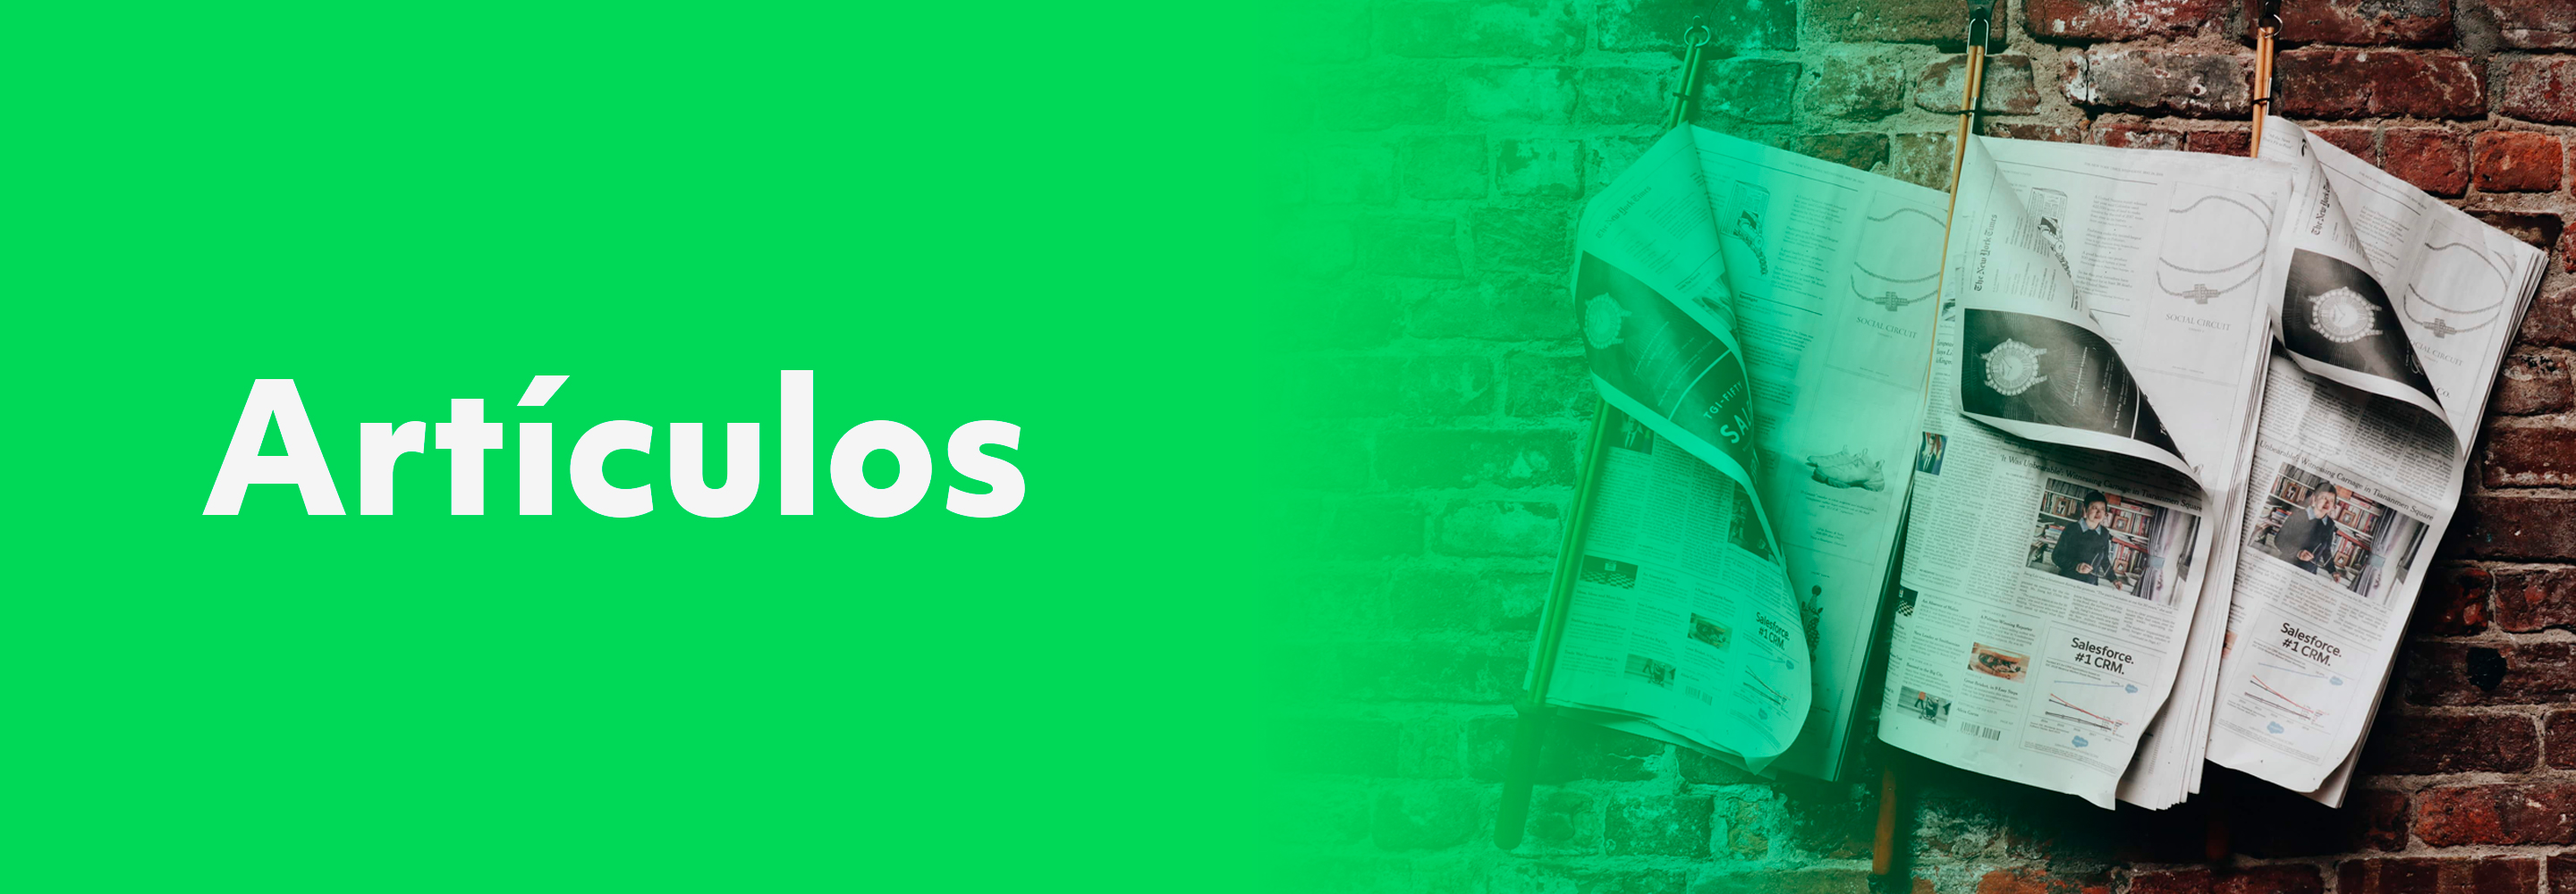
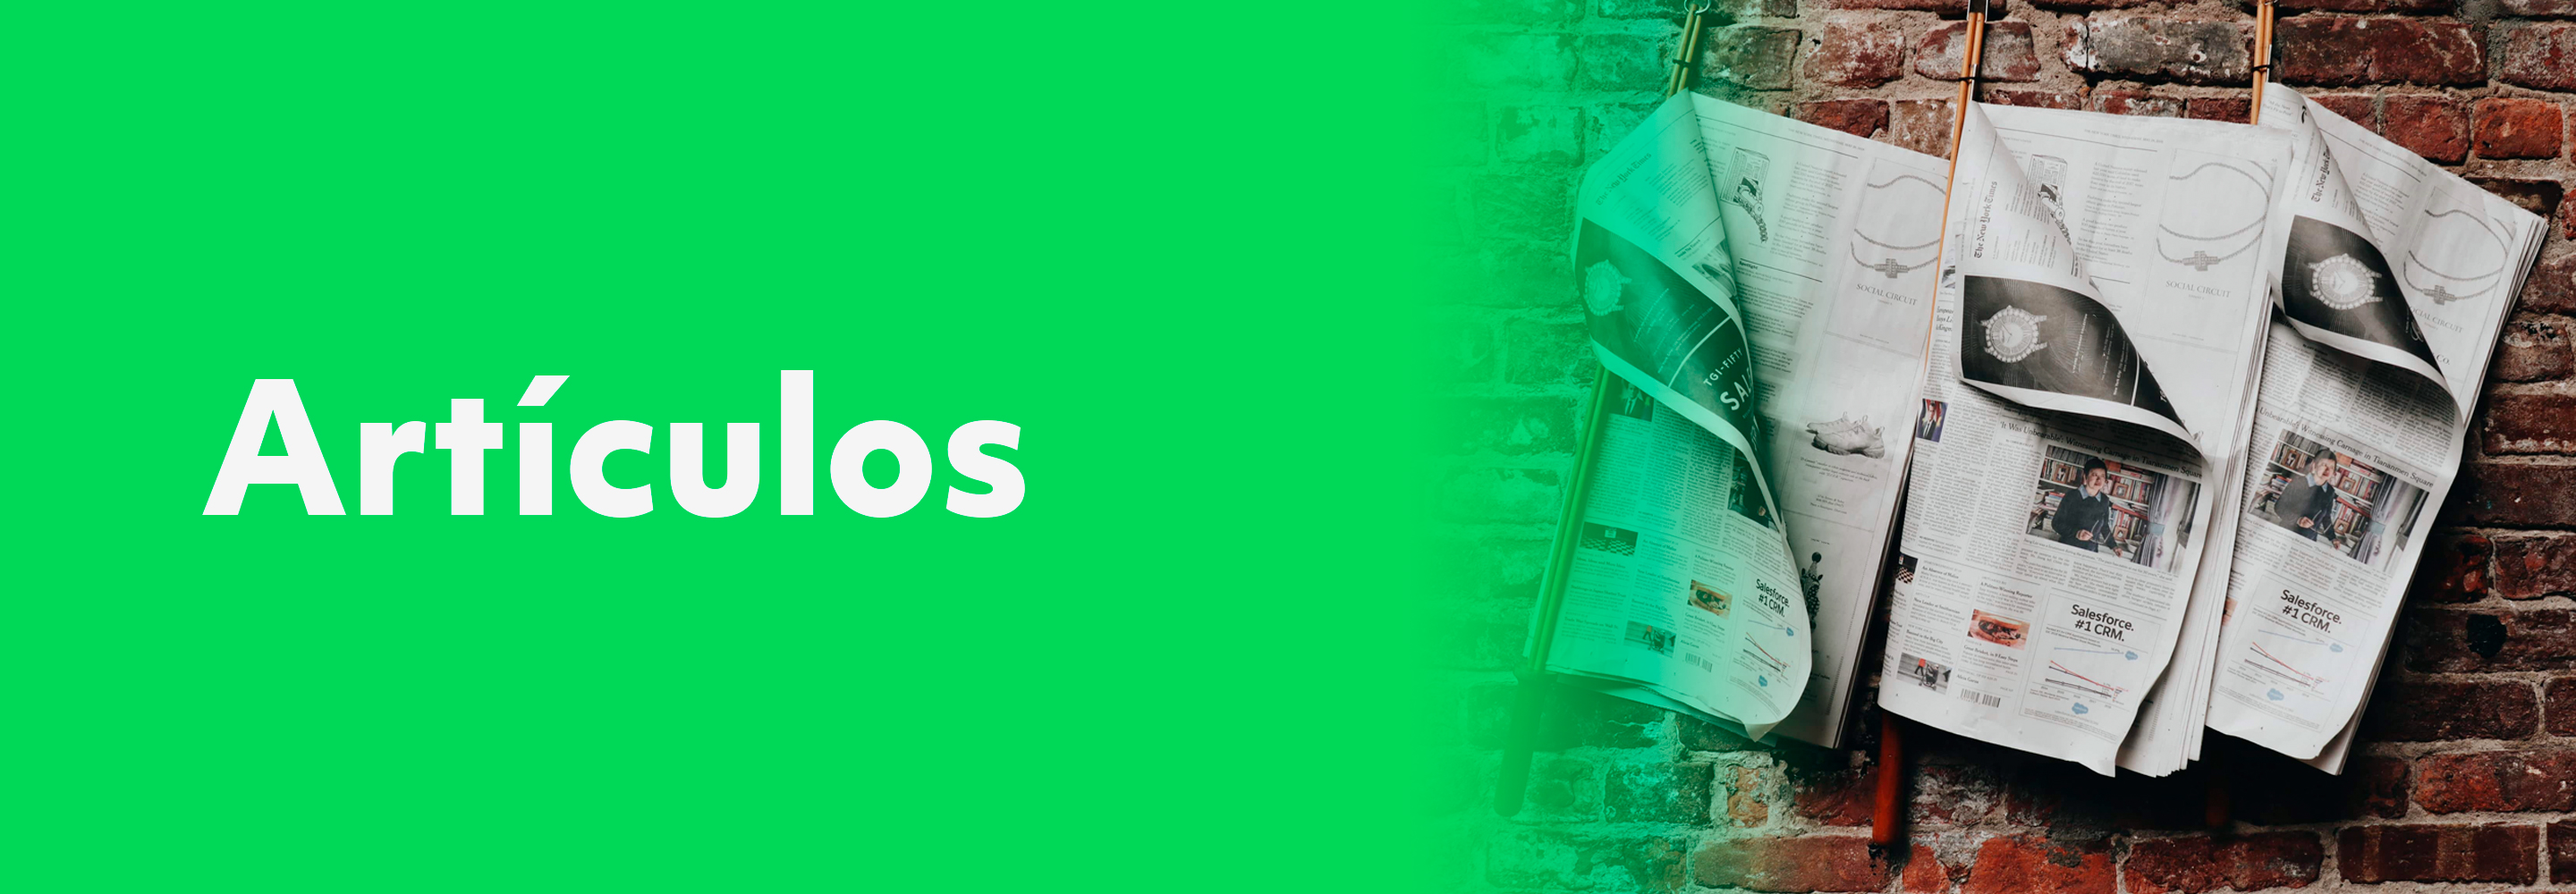
Complete categories page

Changed region(s): [[0.5312, 0.0, 1.0, 1.0], [0.5312, 0.589, 0.5625, 0.62]]

diff --git a/src/components/Web/CategoriesList/CategoriesList.scss b/src/components/Web/CategoriesList/CategoriesList.scss
@@ -1,0 +1,122 @@
+@import "../../../scss/index.scss";
+
+@-webkit-keyframes spin{
+    100%{-webkit-transform: rotate(360deg);}
+}
+@-moz-keyframes spin{
+    100%{-webkit-transform: rotate(360deg);}
+}
+@keyframes spin{
+    100%{-webkit-transform: rotate(360deg);}
+}
+
+.logo-spin{
+    position: absolute;
+    height: 80px;
+    width: 80px;
+    top: 50%;
+    left: calc(50% - 40px);
+    -webkit-animation: spin 1s linear infinite;
+    -moz-animation: spin 1s linear infinite;
+    animation: spin 1s linear infinite;
+}
+
+.categories-cover{
+    overflow: hidden;
+
+    @media(max-width: $s-laptop){
+        padding-top: 106px;
+        background-color: $RM-white;
+    }
+    @media(max-width: $s-phone){
+        padding-top: 85px;
+    }
+    img{
+        width: 100%;
+        height: auto;
+    }
+}
+
+.categories-list{
+        padding-left: 200px;
+        padding-right: 200px;
+        padding-bottom: 100px;
+        overflow: hidden;
+
+        @media (max-width: $s-laptop){
+            padding-left: 100px;
+            padding-right: 100px;
+        }
+
+        @media (max-width: $s-phone){
+            padding-left: 30px;
+            padding-right: 30px;
+        }
+
+    &__title{
+            margin-top: 140px;
+            font-family: $titles-font;
+            font-size: 40px;
+            margin-bottom: 70px;
+
+            @media(max-width: $s-phone){
+                font-size: 35px;
+                margin-top: 70px;
+            }
+
+            @media(max-width: $s-phone-s){
+                font-size: 30px;
+            }
+
+            @media(max-width: $s-phone-xs){
+                font-size: 25px;
+            }
+    }
+
+    &__item{
+        width: 742px;
+        height: 355px;
+        display: inline-block;
+        margin-right: 18px;
+        margin-bottom: 18px;
+        box-shadow: 0 14px 26px rgba(0,0,0,0.04);
+        transition: all 0.3s ease-out;
+
+        @media(max-width: $s-large){
+            width: 490px;
+            height: 234px;
+        }
+
+        @media (max-width: $s-laptop){
+            width: 742px;
+            height: 355px;
+            margin-left: calc(((100vw - 200px) / 2) - 371px);
+        }
+
+        @media(max-width: $s-tablet){
+            width: 100%;
+            height: calc((100vw - 200px) * 0.48);
+            margin-left: auto;
+            margin-right: auto;
+        }
+
+        @media(max-width: $s-phone){
+            height: 200px;
+        }
+
+        @media(width: 1366px){
+            width: 100%;
+            height: 450px;
+        }
+
+        &:hover{
+            transform: translateY(-5px) scale(1.005) translateZ(0);
+            box-shadow: 0 24px 36px rgba(0,0,0,0.11);
+        }
+
+        img{
+            width: 100%;
+            height: 100%;
+        }
+    }
+}

diff --git a/src/components/Web/NewsInfo/NewsInfo.scss b/src/components/Web/NewsInfo/NewsInfo.scss
@@ -235,6 +235,12 @@
                 background-color: $RM-green;
                 color: $RM-white;
                 cursor: pointer;
+                box-shadow: 0 14px 26px rgba(0,0,0,0.04);
+
+                &:hover{
+                    transform: translateY(-5px) scale(1.005) translateZ(0);
+                    box-shadow: 0 24px 36px rgba(0,0,0,0.11);
+                }
 
                 @media(max-width: $s-phone-m){
                     margin-bottom: 10px;
@@ -251,6 +257,12 @@
                 margin-top: 120px;
             }
 
+            h2,h3,h4,h5,h6{
+                font-family: $subtitles-font;
+                text-transform: capitalize;
+                color: $RM-green;
+            }
+
             a{
                 color: $RM-green;
                 text-decoration: underline;
@@ -259,6 +271,38 @@
             p{
                 line-height: 45px;
                 margin-bottom: 60px
+            }
+
+            blockquote{
+                font-style: italic;
+                border-left: 5px solid $RM-green-transparent;
+                margin: 1.5em 10px;
+                padding: 0.5em 10px;
+                position: relative;
+
+                &:after{
+                    content: "\201D";
+                    position: absolute;
+                    top: 0.28em;
+                    right: 0;
+                    font-size: 6em;
+                    font-style: italic;
+                    color: $RM-green-transparent;
+                    z-index: -1;
+                }
+
+                footer{
+                    font-family: $titles-font;
+                    font-size: 0.9em;
+                    color: $RM-green-transparent;
+                    float: right;
+                    font-style: normal;
+
+                    &:before{
+                        content: "\2015";
+                    }
+                }
+
             }
 
         }
@@ -304,6 +348,22 @@
                 transform: translateY(-5px) scale(1.005) translateZ(0);
                 box-shadow: 0 24px 36px rgba(0,0,0,0.11);
             }
+        }
+    }
+
+    &__comments{
+        padding-left: 200px;
+        padding-right: 200px;
+        position: relative;
+
+        @media (max-width: $s-laptop){
+            padding-left: 100px;
+            padding-right: 100px;
+        }
+
+        @media (max-width: $s-phone){
+            padding-left: 30px;
+            padding-right: 30px;
         }
     }
 }

diff --git a/src/components/Web/CategoriesList/CategoriesList.js b/src/components/Web/CategoriesList/CategoriesList.js
@@ -1,0 +1,66 @@
+import React, {useEffect, useState} from "react";
+import {getCategoriesApi} from "../../../api/category";
+import {Link} from "react-router-dom";
+import {Helmet} from "react-helmet";
+import Icono from "../../../assets/img/svg/RM-logo-icono.svg";
+import Missing from "../../../assets/img/png/Missing.png";
+import Banner from "../../../assets/img/jpg/recuento-mercado-categorias.jpg";
+
+import "./CategoriesList.scss";
+
+export default function CategoriesList() {
+    const [categories, setCategories] = useState();
+
+    useEffect(() => {
+        getCategoriesApi()
+        .then( response => {
+            const arrayCategories = [];
+            response.category.forEach(item => {
+                item.active && arrayCategories.push(item);
+            });
+            setCategories(arrayCategories);
+        });
+    },[]);
+
+    if(!categories){
+        return(
+            <img
+                className = "logo-spin"
+                src = {Icono}
+                alt = "Cargando"
+            />
+        ) 
+    }
+
+    return(
+        <>
+            <Helmet></Helmet>
+            <div className = "categories-cover">
+                <img
+                    alt = "Categorías"
+                    src = {Banner}
+                />
+            </div>
+            <div className = "categories-list">
+                <h2 className = "categories-list__title">
+                    Encuentra artículos relacionados con:
+                </h2>
+                { categories.map(category => {
+                    return(
+                        <Link
+                            to = {`/categorias/${category.url}`}
+                            key = {category._id}
+                        >
+                            <div className = "categories-list__item">
+                                <img
+                                    alt ={category.tag}
+                                    src = {category.avatar ? category.avatar : Missing}
+                                />
+                            </div>
+                        </Link>
+                    );
+                })}
+            </div>
+        </>
+    );
+}

diff --git a/src/components/Web/NewsInfo/NewsInfo.js b/src/components/Web/NewsInfo/NewsInfo.js
@@ -6,6 +6,7 @@ import {Redirect, Link} from "react-router-dom";
 import {Helmet} from "react-helmet";
 import ReactGa from "react-ga";
 import {EmailShareButton, EmailIcon, FacebookShareButton, FacebookIcon, PinterestShareButton, PinterestIcon, TwitterShareButton, TwitterIcon, WhatsappShareButton, WhatsappIcon, FacebookMessengerShareButton, FacebookMessengerIcon, LinkedinShareButton, LinkedinIcon, TelegramShareButton, TelegramIcon} from "react-share";
+import HyvorTalk from "hyvor-talk-react";
 import {getPostApi} from "../../../api/post";
 import {getCategoryTagApi} from "../../../api/category";
 import Icono from "../../../assets/img/svg/RM-logo-icono.svg";
@@ -206,6 +207,12 @@ export default function NewsInfo(props) {
                 >
                     <TelegramIcon/>
                 </TelegramShareButton>
+            </div>
+            <div className = "post-info__comments">
+                   <HyvorTalk.Embed
+                       websiteId = {2098}
+                       id = {postInfo._id}
+                   /> 
             </div>
         </div>
         </>

diff --git a/src/config/routes.js b/src/config/routes.js
@@ -15,6 +15,7 @@ import AdminPodcasts from "../pages/Admin/Podcasts";
 //User Pages
 import Home from "../pages/Home";
 import News from "../pages/News";
+import Categories from "../pages/Categories";
 
 //Error Page
 
@@ -84,6 +85,11 @@ const routes = [
             {
                 path: "/articulos/:url",
                 component: News,
+                exact: true
+            },
+            {
+                path: "/categorias",
+                component: Categories,
                 exact: true
             }
         ]

diff --git a/src/App.js b/src/App.js
@@ -2,6 +2,7 @@ import React from 'react';
 import {BrowserRouter as Router, Route, Switch} from "react-router-dom";
 import routes from "./config/routes";
 import AuthProvider from "./providers/AuthProvider";
+import ScrollToTop from "./components/Web/ScrollToTop";
 
 import './App.scss';
 
@@ -10,6 +11,7 @@ function App() {
   return (
     <AuthProvider>
       <Router>
+      <ScrollToTop/>
         <Switch>
           {routes.map((route,index) => (
             <RouteWithSubRoutes key = {index} {...route} />

diff --git a/src/components/Web/NavBar/NavBar.js b/src/components/Web/NavBar/NavBar.js
@@ -124,7 +124,7 @@ export default function NavBar(){
                         id = "first-social"
                     >
                         <a
-                            href = "https://www.youtube.com"
+                            href = "https://www.youtube.com/channel/UCVXjaPiyO1By_PwCI0l4Wjw"
                             rel = "noopener noreferrer"
                             target = "_blank"
                         >

diff --git a/src/components/Web/Footer/SocialList/SocialList.js b/src/components/Web/Footer/SocialList/SocialList.js
@@ -7,7 +7,7 @@ export default function SocialList() {
         <div className = "footer-social">
             <p className = "footer-social__link">
                 <a
-                    href = "https://www.youtube.com"
+                    href = "https://www.youtube.com/channel/UCVXjaPiyO1By_PwCI0l4Wjw"
                     target = "_blank"
                     rel = "noopener noreferrer"
                 >

diff --git a/src/pages/Categories.js b/src/pages/Categories.js
@@ -1,0 +1,11 @@
+import React from "react";
+import CategoriesList from "../components/Web/CategoriesList";
+import {useParams} from "react-router-dom";
+
+export default function Categories(){
+    const {tag} = useParams();
+
+    return(
+        <CategoriesList/>
+    );
+}

diff --git a/src/components/Web/ScrollToTop.js b/src/components/Web/ScrollToTop.js
@@ -1,0 +1,12 @@
+import { useEffect } from "react";
+import { useLocation } from "react-router-dom";
+
+export default function ScrollToTop() {
+  const { pathname } = useLocation();
+
+  useEffect(() => {
+    window.scrollTo(0, 0);
+  }, [pathname]);
+
+  return null;
+}

diff --git a/src/components/Web/NewsList/NewsList.scss b/src/components/Web/NewsList/NewsList.scss
@@ -313,4 +313,8 @@
             }
         }
     }
+
+    .ant-list-header{
+        font-family: $titles-font;
+    }
 }

diff --git a/src/components/Web/CategoriesList/index.js b/src/components/Web/CategoriesList/index.js
@@ -1,0 +1,1 @@
+export {default} from "./CategoriesList";
